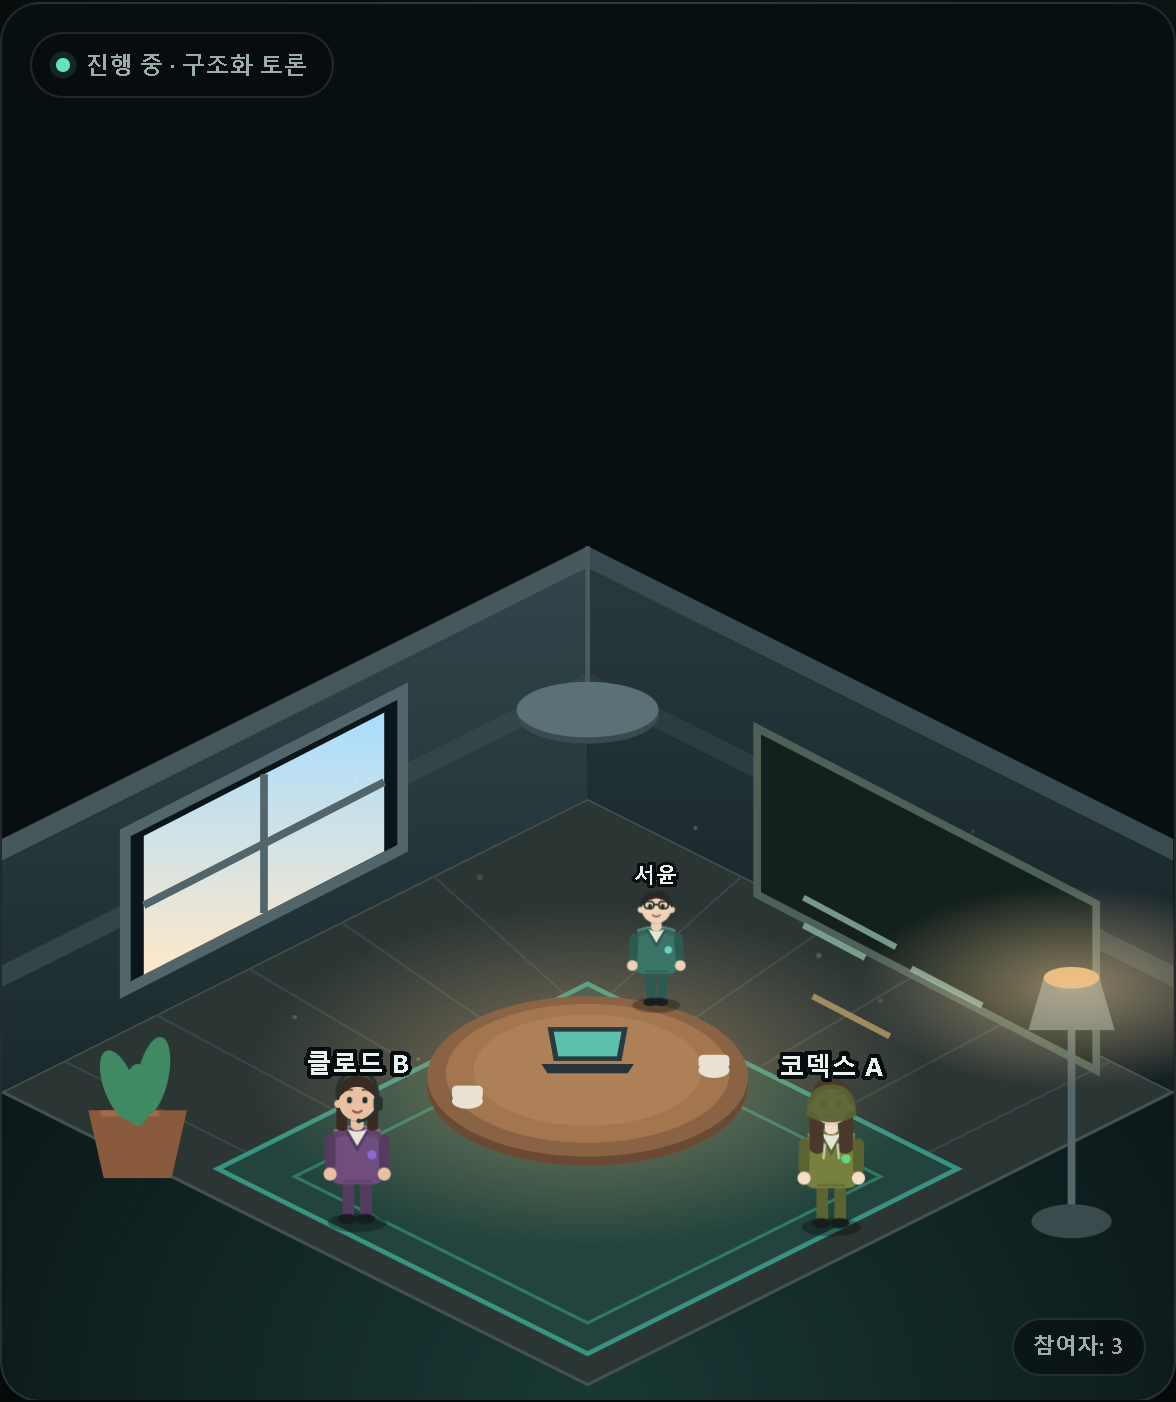
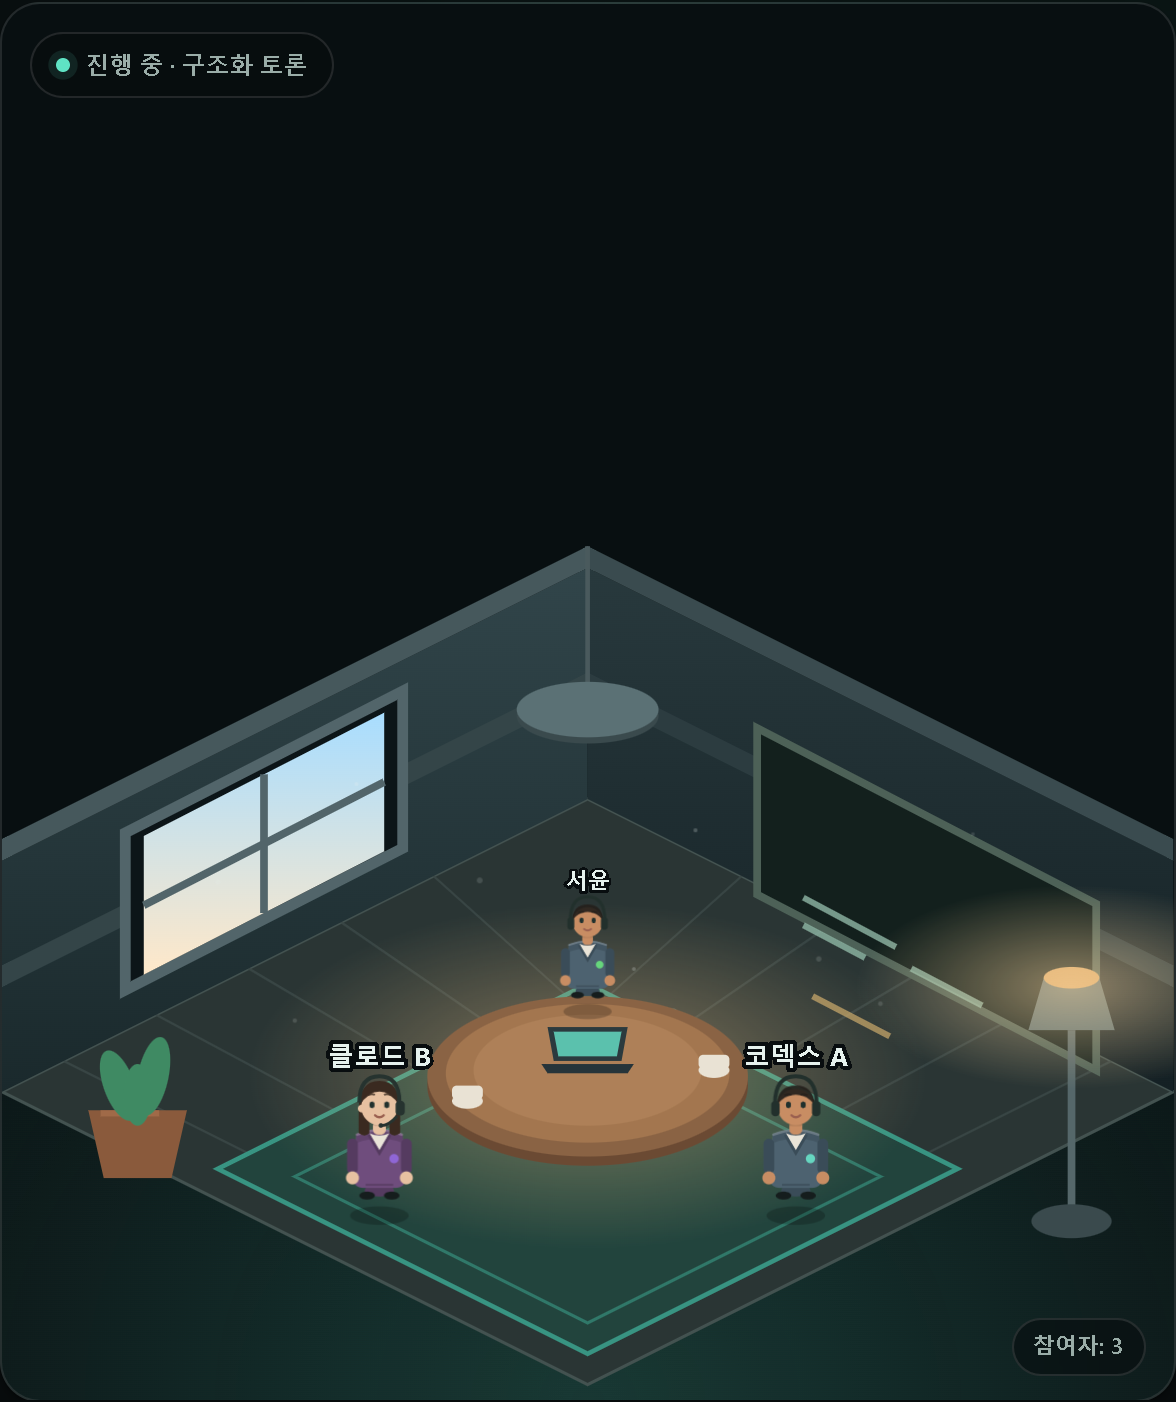
feat(ui): seat the agents, animate speech and open a profile card
- Characters sit by default: chairs and folded legs appear, the upper body
  settles, and the standing walk cycle keeps its swing when someone gets up.
- Speech is visible: the speaker's mouth opens and closes while the typing
  bubble and raised hand are shown.
- A speaker is anchored to their seat; other participants occasionally stand,
  walk a short arc around the table and return.
- Clicking a character opens a profile card with name, handle, status, post
  count, latest contribution time, connection and runtime-test evidence.
  The card is a real DOM panel outside the decorative stage, with a close
  button, and closes when the room closes.
- A failed stage render is captured instead of breaking the room.

Verified: Node 197 passed; character and profile captures in docs/ui.

Changed region(s): [[0.6122, 0.7361, 0.7653, 0.8894], [0.4592, 0.6134, 0.5816, 0.7361], [0.2449, 0.7361, 0.3673, 0.8894]]

diff --git a/talkabout/web/style.css b/talkabout/web/style.css
@@ -910,6 +910,47 @@ progress::-moz-progress-bar { background: var(--accent); border-radius: 999px; }
 }
 .room-stage .ch { will-change: transform; }
 .room-stage .ch-flip { transform-box: view-box; }
+.room-stage .ch-chair { display: none; }
+.room-stage .ch-legs-sit { display: none; }
+.room-stage .ch.seated .ch-chair,
+.room-stage .ch.seated .ch-legs-sit { display: block; }
+.room-stage .ch.seated .ch-legs-stand { display: none; }
+.room-stage .ch.seated .ch-upper { transform: translateY(7px); }
+.room-stage .ch.seated .ch-shadow { opacity: .22; }
+.room-stage .ch .mouth-talk { display: none; }
+.room-stage .ch.speaking .mouth-idle { display: none; }
+.room-stage .ch.speaking .mouth-talk { display: block; animation: mouth .34s steps(2, end) infinite; transform-box: fill-box; transform-origin: 50% 50%; }
+@keyframes mouth { 0%, 100% { transform: scaleY(.55); } 50% { transform: scaleY(1.15); } }
+.stage-profile {
+  position: absolute;
+  z-index: 6;
+  width: 236px;
+  padding: 14px 15px 13px;
+  color: var(--ink);
+  background: rgba(9, 16, 18, .95);
+  border: 1px solid var(--line-strong);
+  border-radius: var(--radius);
+  box-shadow: var(--shadow-md);
+  backdrop-filter: blur(14px);
+}
+.stage-profile h3 { font-size: .92rem; }
+.stage-profile-handle { font-family: var(--font-mono); font-size: .7rem; color: var(--faint); }
+.stage-profile-badges { display: flex; flex-wrap: wrap; gap: 6px; margin-top: 9px; }
+.stage-profile dl { display: grid; grid-template-columns: auto 1fr; gap: 4px 10px; margin: 10px 0 0; font-size: .74rem; }
+.stage-profile dt { color: var(--faint); }
+.stage-profile dd { margin: 0; color: var(--ink-soft); text-align: right; }
+.stage-profile-close {
+  position: absolute;
+  top: 8px;
+  right: 8px;
+  padding: 0 6px;
+  font-size: .8rem;
+  line-height: 1.6;
+  color: var(--faint);
+  background: transparent;
+  border: 0;
+  box-shadow: none;
+}
 .room-stage .leg,
 .room-stage .arm,
 .room-stage .ch-head,

diff --git a/docs/UI.md b/docs/UI.md
@@ -20,9 +20,14 @@
 - 방의 모드가 가구를 결정합니다: `bounded_rounds`(칠판·책), `co_creation`(화이트보드·모니터·스티커), `free_discussion`(소파·스트링 라이트·머그).
 - 참여자는 `agent_id` 해시로 색(`--tone-h`)과 외형 프로필을 얻습니다: 헤어 6종(숏·보브·번·컬리·롱·버즈), 액세서리 6종(안경·헤드셋·스카프·둥근 안경·후드·헤드폰), 피부 톤 6종, 의상 팔레트 6종. 같은 방에서 색이 겹치면 다음 색으로 밀어 서로 구분됩니다.
 - 캐릭터는 머리·얼굴(눈·눈썹·입)·목·상의(셔츠·칼라·배지)·팔(손 포함)·다리(신발 포함)·그림자로 구성되고, 이름표는 머리 위에 뜹니다.
+- 기본 자세는 **착석**입니다. 의자·접힌 다리가 표시되고, 발언자는 착석 상태로 입 모양이 움직입니다.
+- 가끔 일어나 방 안을 걷다가(팔·다리 반대 위상) 제자리로 돌아와 앉습니다.
+- 캐릭터를 클릭하면 이름·handle·상태·게시 수·최근 발언 시각·연결/시험 근거가 담긴 프로필 카드가 열립니다.
 - 사람 소유자는 상석(12시 방향)입니다.
 
 ![캐릭터](ui/characters.png)
+
+프로필 카드: ![프로필](ui/profile.png)
 - 좌석·이동은 탁자 중심의 **타원 링** 위에서 계산합니다(`pointOnRing`). 각도만 보간하므로 캐릭터가 탁자를 가로지르지 않습니다.
 - 발화자가 있으면 스포트라이트(`.spot`)가 그 위치로 이동하고, 카메라(`viewBox`)가 그쪽으로 완만히 줌합니다(기준 대비 82%, 방 경계로 클램프).
 
